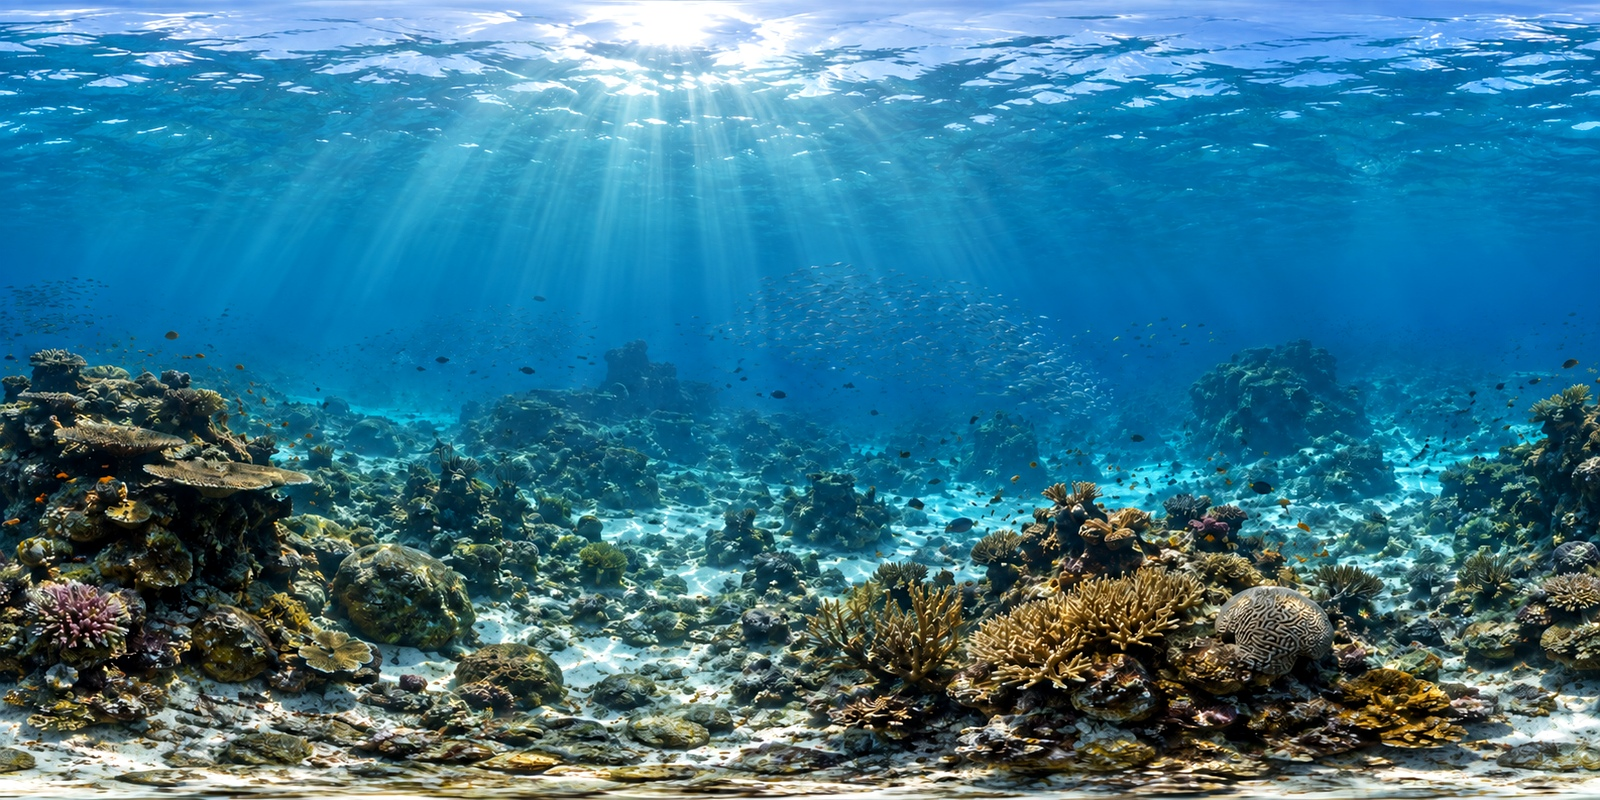
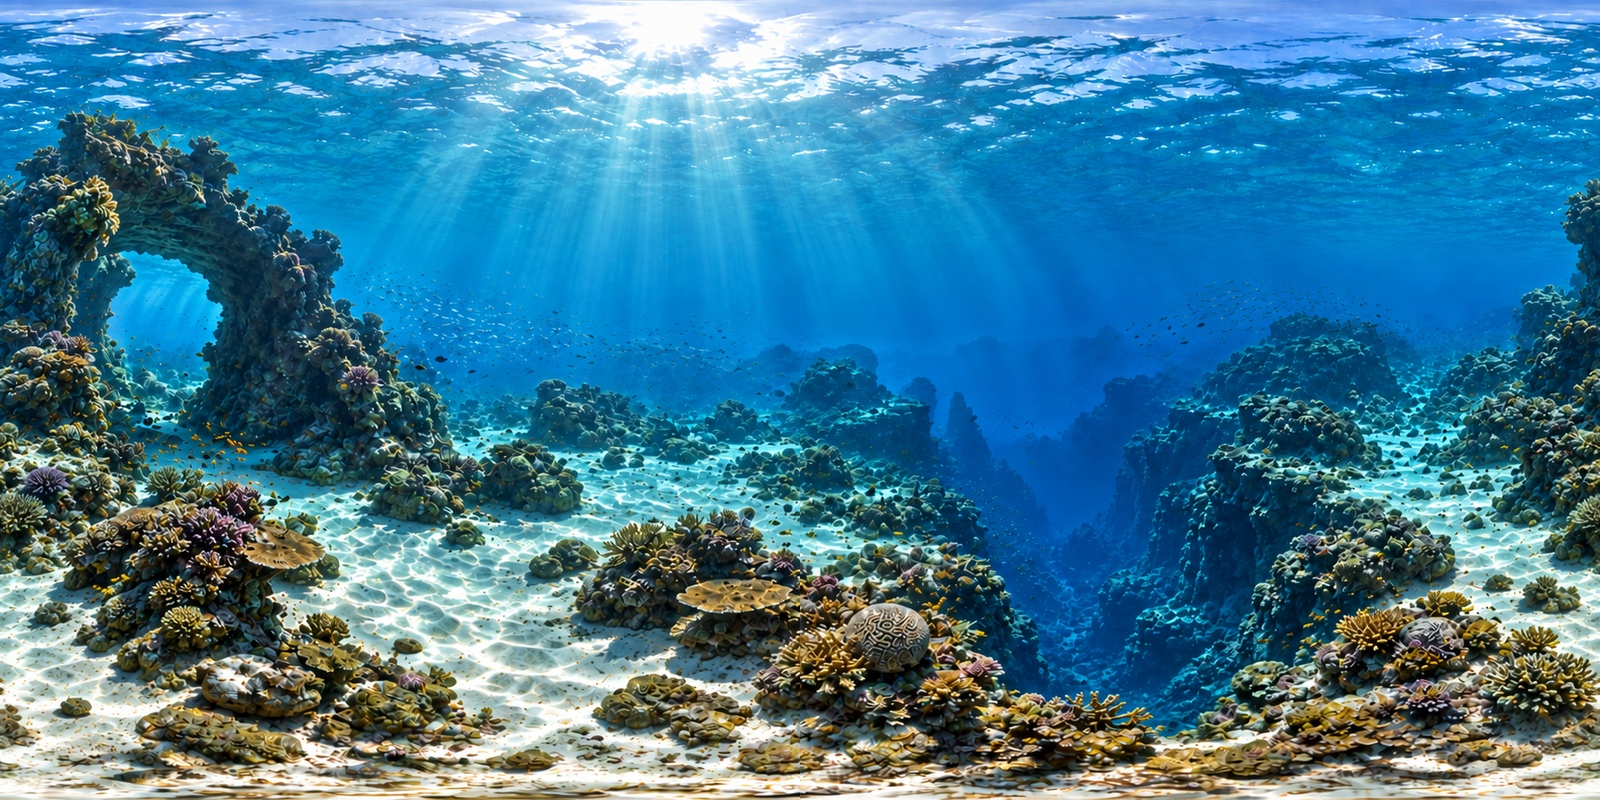
feat(underwater): make all panoramas seamless

diff --git a/projects/underwater_360/tools/make_panorama_seamless.py b/projects/underwater_360/tools/make_panorama_seamless.py
@@ -1,0 +1,69 @@
+#!/usr/bin/env python3
+"""Make the horizontal boundary of an equirectangular panorama periodic."""
+
+from __future__ import annotations
+
+import argparse
+import math
+from pathlib import Path
+
+from PIL import Image
+
+
+def edge_error(image: Image.Image) -> float:
+    pixels = image.load()
+    width, height = image.size
+    total = 0
+    for y in range(height):
+        left = pixels[0, y]
+        right = pixels[width - 1, y]
+        total += sum(abs(int(left[channel]) - int(right[channel])) for channel in range(3))
+    return total / (height * 3)
+
+
+def make_periodic(image: Image.Image, blend_width: int) -> Image.Image:
+    result = image.convert("RGB")
+    width, height = result.size
+    if blend_width < 2 or blend_width * 2 >= width:
+        raise ValueError("blend width must be at least 2 and less than half the image width")
+    source = result.copy()
+    src = source.load()
+    dst = result.load()
+    for offset in range(blend_width):
+        # At the seam both sides become the same average. The influence falls
+        # to zero with a cosine ramp before reaching unchanged source pixels.
+        mix = 0.25 * (1.0 + math.cos(math.pi * offset / (blend_width - 1)))
+        left_x = offset
+        right_x = width - 1 - offset
+        for y in range(height):
+            left = src[left_x, y]
+            right = src[right_x, y]
+            dst[left_x, y] = tuple(round((1.0 - mix) * left[c] + mix * right[c]) for c in range(3))
+            dst[right_x, y] = tuple(round((1.0 - mix) * right[c] + mix * left[c]) for c in range(3))
+    return result
+
+
+def main() -> None:
+    parser = argparse.ArgumentParser()
+    parser.add_argument("input", type=Path)
+    parser.add_argument("output", type=Path)
+    parser.add_argument("--size", required=True, help="WIDTHxHEIGHT")
+    parser.add_argument("--blend-width", type=int, default=128)
+    parser.add_argument("--jpeg", type=Path)
+    args = parser.parse_args()
+    width, height = (int(value) for value in args.size.lower().split("x", 1))
+    image = Image.open(args.input).convert("RGB").resize(
+        (width, height), Image.Resampling.LANCZOS
+    )
+    before = edge_error(image)
+    image = make_periodic(image, args.blend_width)
+    after = edge_error(image)
+    args.output.parent.mkdir(parents=True, exist_ok=True)
+    image.save(args.output, optimize=True)
+    if args.jpeg:
+        image.save(args.jpeg, quality=96, subsampling=2, optimize=True)
+    print(f"{args.output}: edge_error {before:.2f} -> {after:.2f}")
+
+
+if __name__ == "__main__":
+    main()
